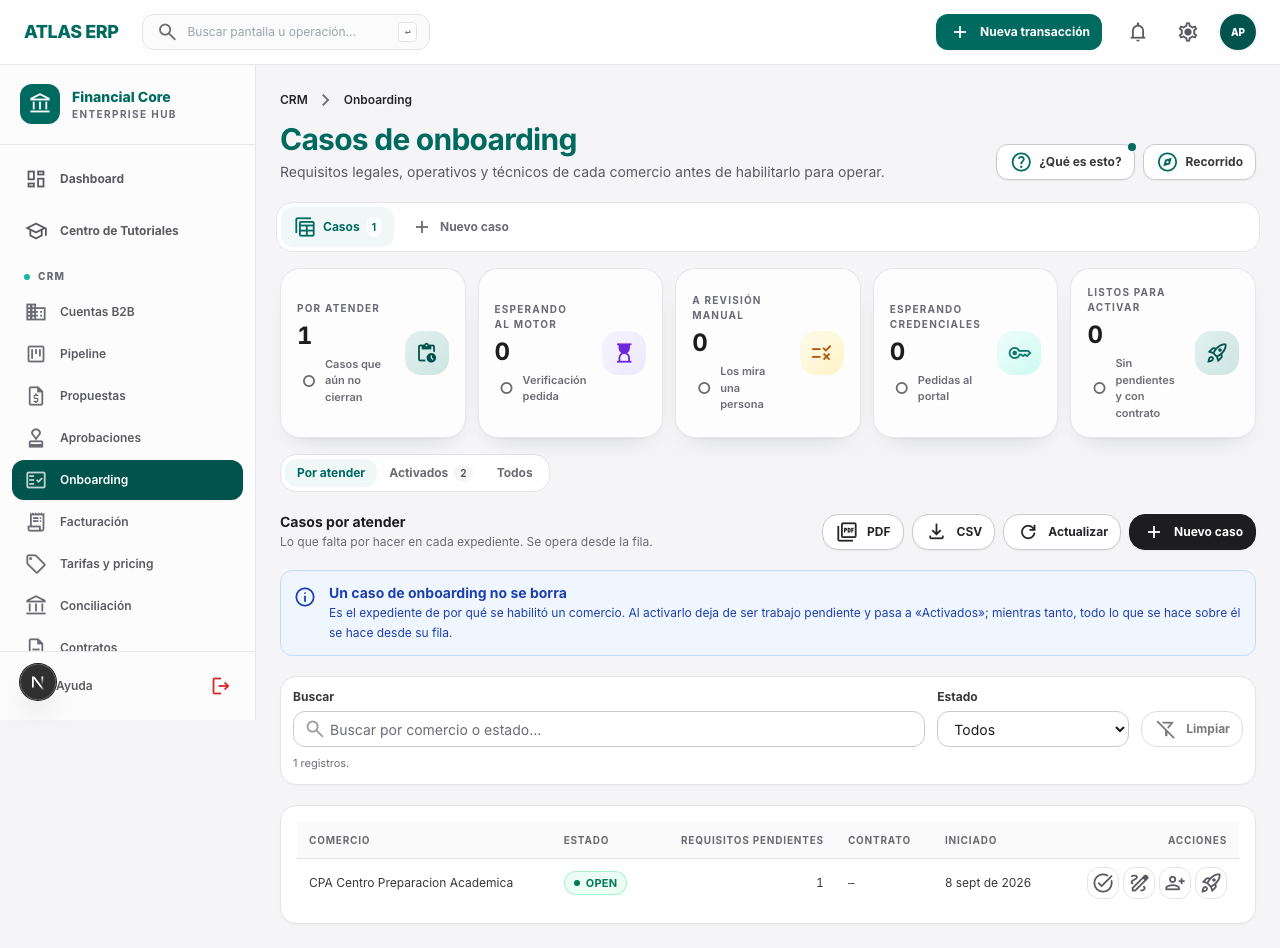
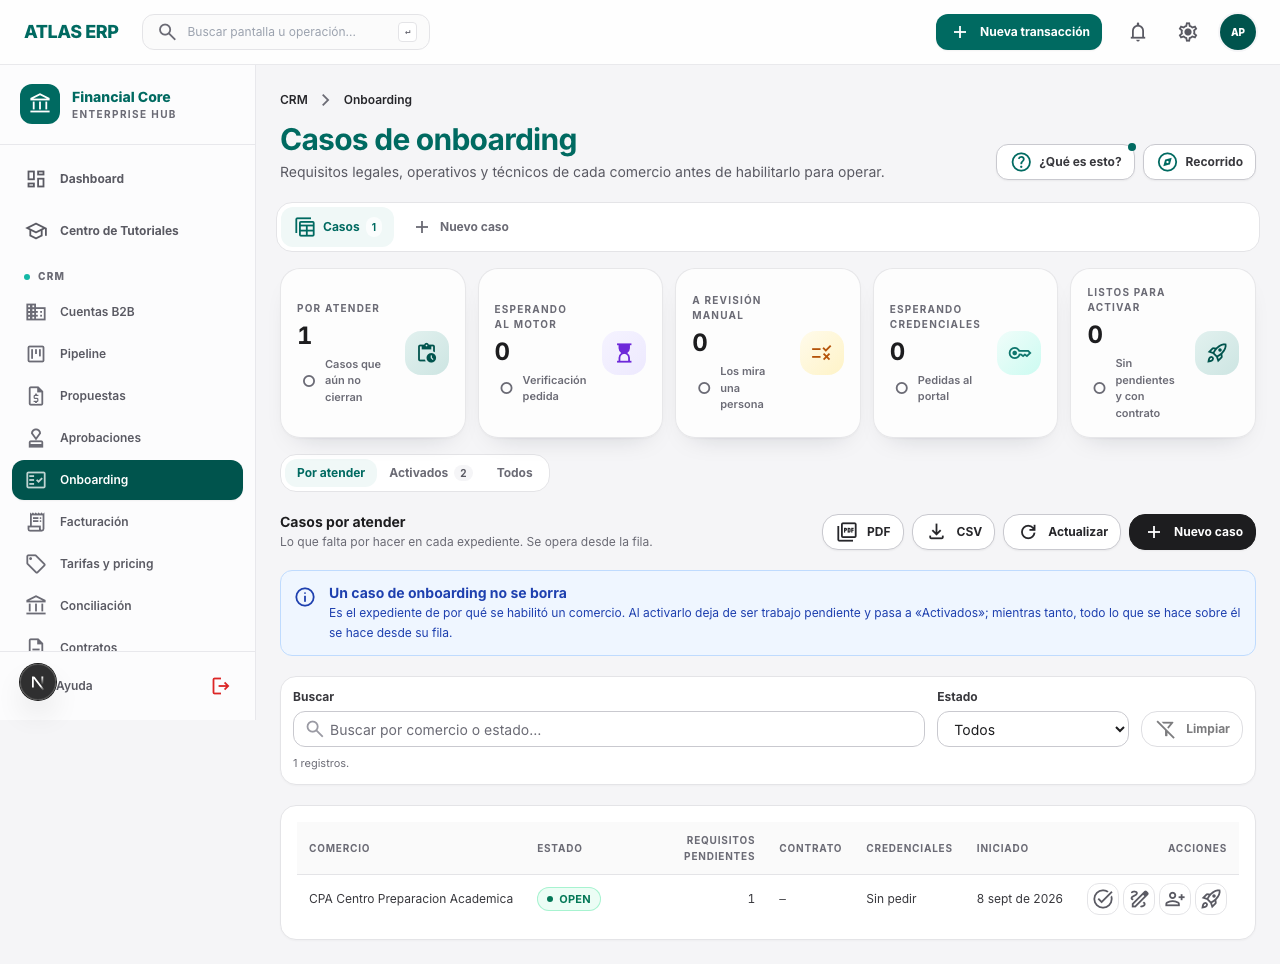
onboarding: la cola acusa las credenciales al abrirse y lo enseña en la fila
Columna «Credenciales» («Sin pedir», «1 concedida · 1 pendiente»…) y acción de fila «Comprobar
credenciales», que sólo aparece cuando hay una petición sin resolver. Al cargar la cola se acusan
las pendientes por `POST cases/:id/identity/reconcile` y, si algo cambió, se vuelve a leer la
lista: es el aviso que antes no llegaba. Sin token de Atlas en la sesión el acuse falla en
silencio y la cola se pinta igual; la cola no puede depender de eso.

diff --git a/app/operaciones/crm/onboarding/page.tsx b/app/operaciones/crm/onboarding/page.tsx
@@ -43,8 +43,21 @@ export default function OnboardingPage() {
   const [scope, setScope] = useState<OnboardingScope>('abiertos');
   const [version, setVersion] = useState(0);
   const recargar = useCallback(() => setVersion((value) => value + 1), []);
-  // eslint-disable-next-line react-hooks/exhaustive-deps
-  const load = useCallback(() => b2bService.listOnboardingCases({ scope, limit: 200 }), [scope, version]);
+  /*
+   * Al abrir la cola se acusan las credenciales pendientes: por cada caso que espera al portal se
+   * pregunta a Atlas en qué quedó, y si algo cambió se vuelve a leer la lista. Es el aviso que antes
+   * no llegaba nunca. Si la sesión no lleva token de Atlas, el acuse falla en silencio y la lista
+   * se enseña igual: la cola no puede depender de eso para pintarse.
+   */
+  const load = useCallback(async () => {
+    const primera = await b2bService.listOnboardingCases({ scope, limit: 200 });
+    const esperando = (primera.items ?? []).filter((row) => Number((row.credentials as { pendientes?: number } | undefined)?.pendientes ?? 0) > 0);
+    if (esperando.length === 0) return primera;
+    const acuses = await Promise.allSettled(esperando.map((row) => b2bService.reconcileCaseIdentity(String(row.id ?? ''))));
+    const cambio = acuses.some((acuse) => acuse.status === 'fulfilled' && Array.isArray(acuse.value.resueltos) && acuse.value.resueltos.length > 0);
+    return cambio ? b2bService.listOnboardingCases({ scope, limit: 200 }) : primera;
+    // eslint-disable-next-line react-hooks/exhaustive-deps
+  }, [scope, version]);
   // eslint-disable-next-line react-hooks/exhaustive-deps
   const summary = useAsyncResource(useCallback(() => b2bService.summarizeOnboardingCases(), [version]));
 
@@ -90,6 +103,7 @@ export default function OnboardingPage() {
                     { key: 'status', label: 'Estado', kind: 'status' },
                     { key: 'pendingItems', label: 'Requisitos pendientes', align: 'right' },
                     { key: 'contractNumber', label: 'Contrato', kind: 'mono' },
+                    { key: 'credentialsSummary', label: 'Credenciales' },
                     { key: 'startedAt', label: 'Iniciado', kind: 'date' },
                     ...(scope === 'abiertos' ? [] : [{ key: 'completedAt', label: 'Activado', kind: 'date' as const }]),
                   ]}
@@ -209,6 +223,18 @@ export default function OnboardingPage() {
                         ],
                         submit: (row, payload: JsonObject) => b2bService.createMerchantUser({ accountId: String(row.accountId ?? ''), ...payload }),
                         submitLabel: 'Pedir acceso',
+                      },
+                    },
+                    {
+                      key: 'acuse',
+                      label: 'Comprobar credenciales',
+                      icon: 'sync',
+                      /* Sólo cuando hay algo que preguntar: una petición encolada y sin resolver. */
+                      enabled: (row) => abierto(row) && Number((row.credentials as { pendientes?: number } | undefined)?.pendientes ?? 0) > 0,
+                      run: async (row) => {
+                        const result = await b2bService.reconcileCaseIdentity(String(row.id ?? ''));
+                        summary.reload();
+                        return result;
                       },
                     },
                     {

diff --git a/services/b2bService.ts b/services/b2bService.ts
@@ -216,6 +216,11 @@ export const b2bService = {
     const caseId = requireUuidPathParam(onboardingCaseId, 'el UUID del caso de onboarding');
     return apiRequest<ResourceRow>(`/b2b/onboarding/cases/${caseId}/mdr-rules`, { method: 'POST', body });
   },
+  /** El acuse: pregunta a Atlas en qué quedaron las credenciales pedidas para el comercio del caso. */
+  reconcileCaseIdentity(onboardingCaseId: string) {
+    const caseId = requireUuidPathParam(onboardingCaseId, 'el UUID del caso de onboarding');
+    return apiRequest<ResourceRow>(`/b2b/onboarding/cases/${caseId}/identity/reconcile`, { method: 'POST', body: {} });
+  },
   /** Las cifras del mini-tablero, contadas con la misma regla que aplica la activación. */
   summarizeOnboardingCases() {
     return apiRequest<ResourceRow>('/b2b/onboarding/cases/summary');

diff --git a/e2e/onboarding-cola.evidencia.spec.ts b/e2e/onboarding-cola.evidencia.spec.ts
@@ -90,6 +90,10 @@ test('todo se hace desde la fila: requisito, contrato, credenciales, activar', a
   await expect(fila.getByTitle(/pactar contrato/i)).toBeVisible();
   await expect(fila.getByTitle(/pedir credenciales/i)).toBeVisible();
   await expect(fila.getByTitle(/activar comercio/i)).toBeVisible();
+  // El acuse de credenciales sólo se ofrece cuando hay una petición sin resolver.
+  await expect(page.locator('[data-tutorial-id="crud-tabla"] th', { hasText: /credenciales/i })).toBeVisible();
+  await expect(fila.getByText(/sin pedir/i)).toBeVisible();
+  await expect(fila.getByTitle(/comprobar credenciales/i)).toHaveCount(0);
 
   await fila.getByTitle(/mover un requisito/i).click();
   await expect(page.getByRole('dialog')).toBeVisible();
